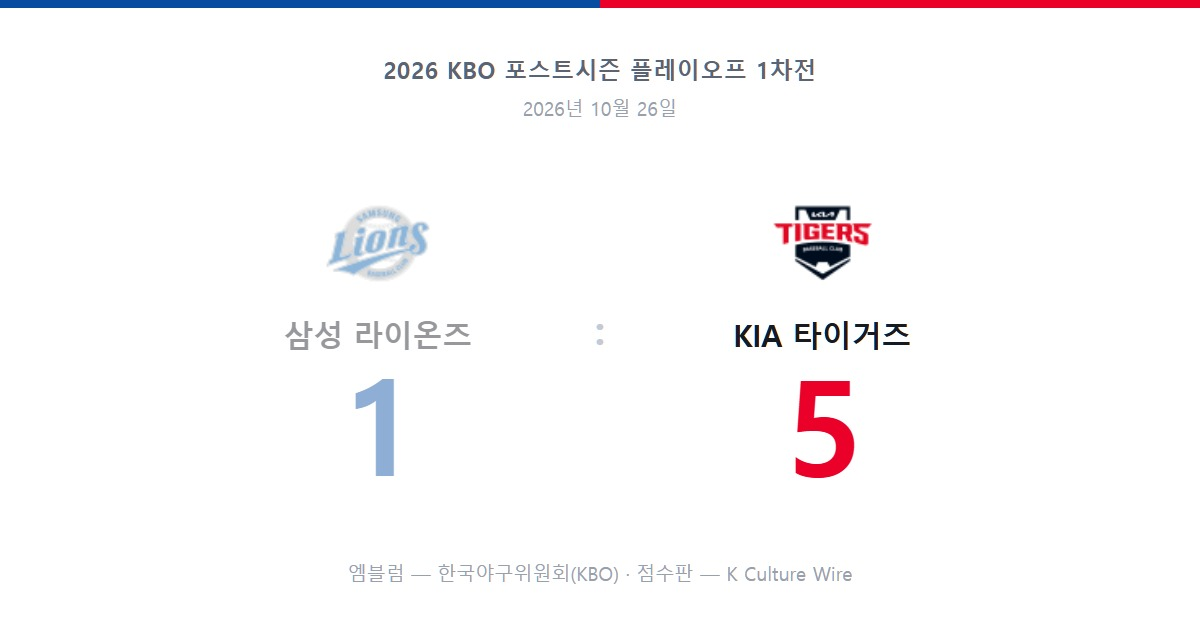
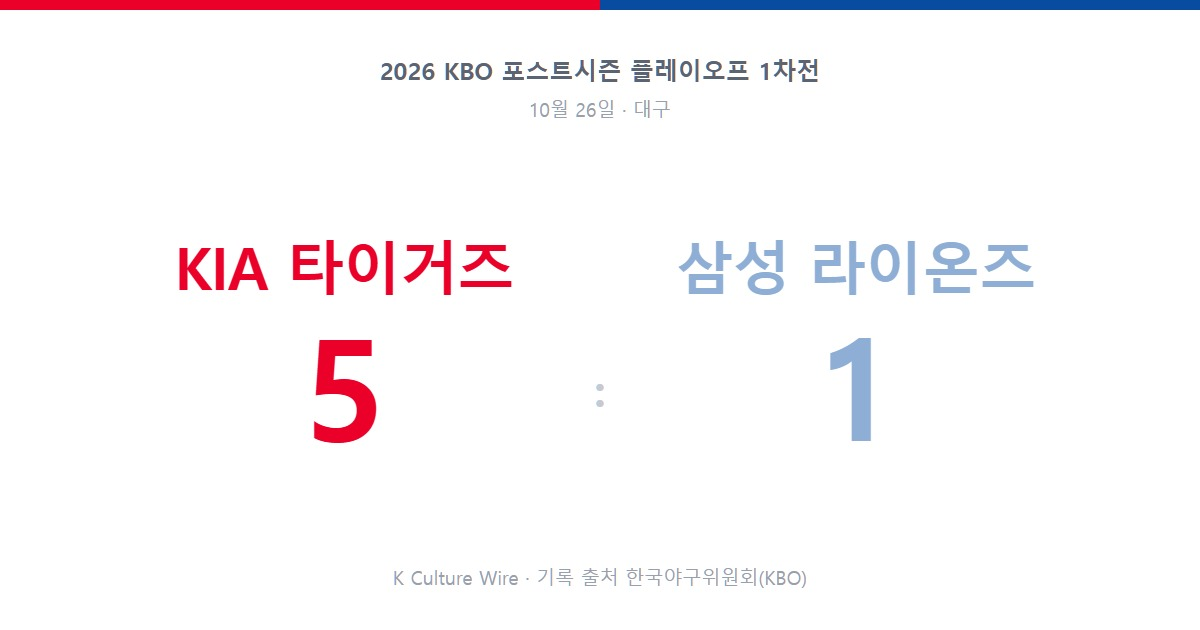
케이리뷰 KIA-삼성 PO1~3 — 엠블럼을 빼고 팀 이름 글자 그림으로 (사장님 「엠블럼을 왜 쓰지」)
Claude-Session: https://claude.ai/code/session_01HoNYEEmb7tLMvA8hcd5d4r

diff --git a/content/kcw-reviews/kbo-po2-samsung-kia.md b/content/kcw-reviews/kbo-po2-samsung-kia.md
@@ -10,7 +10,7 @@ subject:
   주체: "한국야구위원회(KBO)"
 image:
   src: "/review/kbo-po2-samsung-kia.jpg"
-  대체텍스트: "삼성 라이온즈 8, KIA 타이거즈 3. 두 구단 엠블럼과 점수를 담은 점수판"
+  대체텍스트: "삼성 라이온즈 8, KIA 타이거즈 3. 두 팀 이름을 구단 색 글자로 적고 점수를 크게 담은 그림"
   캡션: "2026 KBO 포스트시즌 플레이오프 2차전. 삼성 라이온즈가 KIA 타이거즈를 8대3으로 이겼다."
   제공처: "K Culture Wire"
   제공처유형: own

diff --git a/content/kcw-reviews/kbo-po1-kia-samsung.md b/content/kcw-reviews/kbo-po1-kia-samsung.md
@@ -10,7 +10,7 @@ subject:
   주체: "한국야구위원회(KBO)"
 image:
   src: "/review/kbo-po1-kia-samsung.jpg"
-  대체텍스트: "KIA 타이거즈 5, 삼성 라이온즈 1. 두 구단 엠블럼과 점수를 담은 점수판"
+  대체텍스트: "KIA 타이거즈 5, 삼성 라이온즈 1. 두 팀 이름을 구단 색 글자로 적고 점수를 크게 담은 그림"
   캡션: "2026 KBO 포스트시즌 플레이오프 1차전. KIA 타이거즈가 삼성 라이온즈를 5대1로 이겼다."
   제공처: "K Culture Wire"
   제공처유형: own

diff --git a/content/kcw-reviews/kbo-po3-samsung-kia.md b/content/kcw-reviews/kbo-po3-samsung-kia.md
@@ -14,7 +14,7 @@ subject:
   주체: "한국야구위원회(KBO)"
 image:
   src: "/review/kbo-po3-samsung-kia.jpg"
-  대체텍스트: "삼성 라이온즈 6, KIA 타이거즈 4. 두 구단 엠블럼과 점수를 담은 점수판"
+  대체텍스트: "삼성 라이온즈 6, KIA 타이거즈 4. 두 팀 이름을 구단 색 글자로 적고 점수를 크게 담은 그림"
   캡션: "2026 KBO 포스트시즌 플레이오프 3차전. 삼성 라이온즈가 KIA 타이거즈를 6대4로 이겼다."
   제공처: "K Culture Wire"
   제공처유형: own
